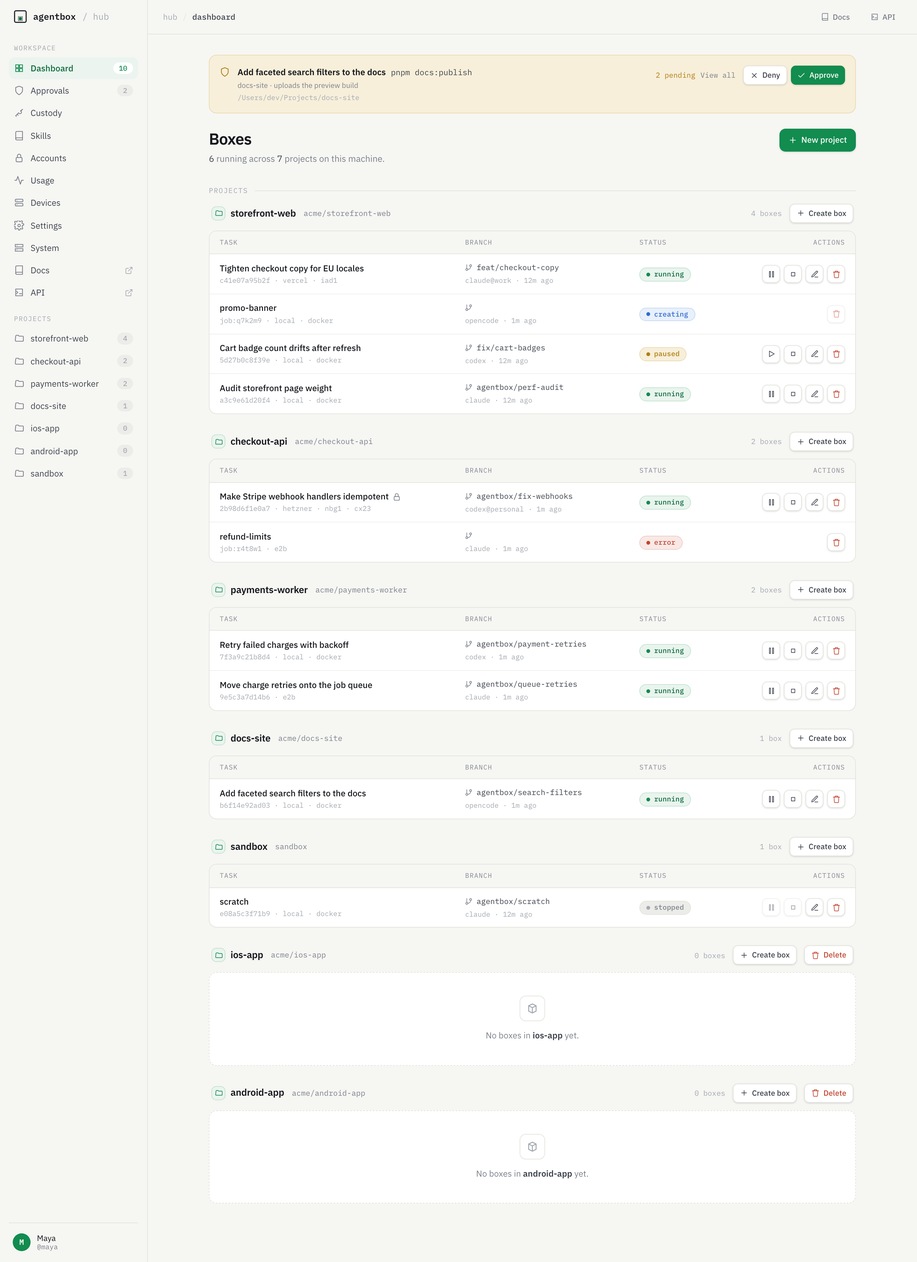
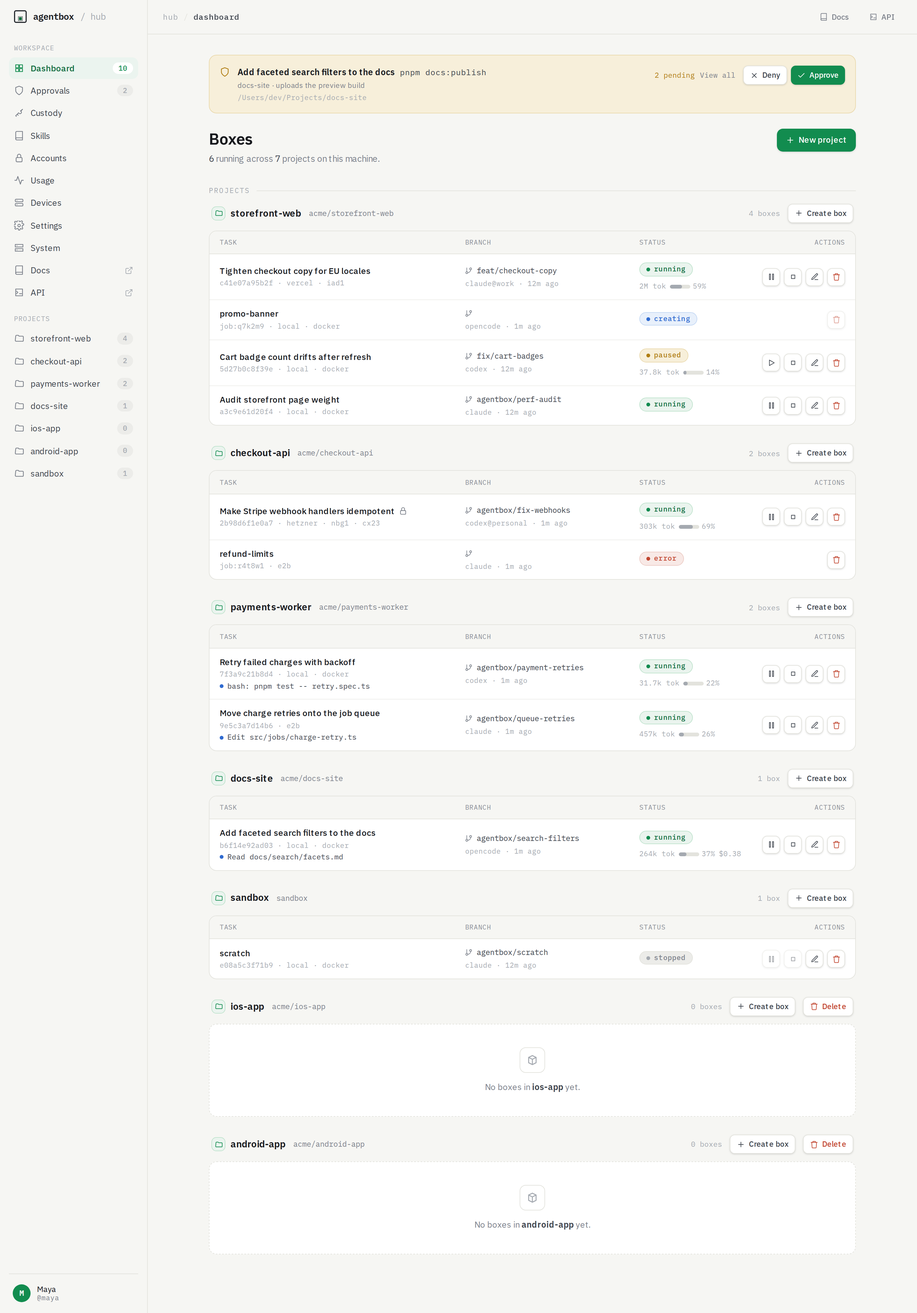
docs(live-status): retake the catalog hub box shots; mark hub-dashboard figure stale
Claude-Session: https://claude.ai/code/session_01A3UmwqeJmeG573FZSZ5B4x

diff --git a/catalog/screens/index.html b/catalog/screens/index.html
@@ -126,7 +126,7 @@ dialog::backdrop { background: var(--shade); }
 <dialog id="dlg"></dialog>
 
 <script>
-const DATA = {"screens":[{"topic":"Web hub","setup":"fixture-hub","url":"/","id":"hub/boxes","title":"Hub dashboard: every box, grouped by project","what":"The boxes list with a pending approval banner on top: running, paused, creating, failed and stopped boxes on docker, vercel, hetzner and e2b.","social":{"title":"Every coding agent in its own box","crop":[0,0,2880,1800]},"files":[{"shoot":"pnpm shoot hub/boxes.png / --full","file":"hub/boxes.png","w":2880,"h":3962,"url":"../shots/hub/boxes.png","path":"catalog/shots/hub/boxes.png"}]},{"topic":"Web hub","setup":"fixture-hub","url":"/boxes/\u003cbox id>","id":"hub/box-detail","title":"Box detail","what":"One box: status, git, services, the skills it holds, access links and its approvals.","from":"hub/boxes","via":"Click a box row","social":{"crop":[0,0,2880,1800]},"files":[{"shoot":"pnpm shoot hub/box-detail.png /boxes/7f3a9c21b8d4 --full","file":"hub/box-detail.png","w":2880,"h":3948,"url":"../shots/hub/box-detail.png","path":"catalog/shots/hub/box-detail.png"}]},{"topic":"Web hub","setup":"fixture-hub","url":"/projects/\u003cproject id>","id":"hub/project","title":"Project page","what":"A project's boxes, its seed in custody and its service bot with backups.","from":"hub/boxes","via":"Click a project in the sidebar","social":{"crop":[0,0,2880,1800]},"files":[{"shoot":"pnpm shoot hub/project-detail.png /projects/fx-payments-worker --full","file":"hub/project-detail.png","w":2880,"h":1928,"url":"../shots/hub/project-detail.png","path":"catalog/shots/hub/project-detail.png"}]},{"topic":"Web hub","setup":"fixture-hub","url":"/projects/\u003cproject id>, then Create box","id":"hub/create-box","title":"Create a box","what":"The create modal over a project page: provider, agent, account and first prompt.","from":"hub/project","via":"Create box","notes":["The modal opens over the project page; the click is the first \"Create box\" button on the page."],"files":[{"shoot":"pnpm shoot hub/create-box.png /projects/fx-payments-worker --click text=Create\\ box","file":"hub/create-box.png","w":2880,"h":1800,"url":"../shots/hub/create-box.png","path":"catalog/shots/hub/create-box.png"}]},{"topic":"Web hub","setup":"fixture-hub","url":"/approvals","id":"hub/approvals","title":"Approvals","what":"Host actions boxes asked for, waiting on a yes: a shell command on the host and a git push.","from":"hub/boxes","via":"Approvals in the sidebar, or View all on the banner","files":[{"shoot":"pnpm shoot hub/approvals.png /approvals","file":"hub/approvals.png","w":2880,"h":1800,"url":"../shots/hub/approvals.png","path":"catalog/shots/hub/approvals.png"}]},{"topic":"Web hub","setup":"fixture-hub","url":"/usage","id":"hub/usage","title":"Usage: tokens by day, agent, account, box and model","what":"Seven days of token usage (demo numbers) by day, agent, account, box and model.","social":{"title":"Where the tokens went, per box and per account","crop":[0,0,2880,1800]},"files":[{"shoot":"pnpm shoot hub/usage.png /usage --full","file":"hub/usage.png","w":2880,"h":6642,"url":"../shots/hub/usage.png","path":"catalog/shots/hub/usage.png"}]},{"topic":"Web hub","setup":"fixture-hub","url":"/custody","id":"hub/custody","title":"Custody: what the hub holds for boxes","what":"Agent logins, project seeds, bake records, the skills library and a box SSH key, metadata only.","files":[{"shoot":"pnpm shoot hub/custody.png /custody --full","file":"hub/custody.png","w":2880,"h":6160,"url":"../shots/hub/custody.png","path":"catalog/shots/hub/custody.png"}]},{"topic":"Web hub","setup":"fixture-hub","url":"/devices","id":"hub/devices","title":"Devices: the PCs enrolled on this hub","what":"Three enrolled machines, a revoked one, and an enrollment code waiting for approval.","files":[{"shoot":"pnpm shoot hub/devices.png /devices --full","file":"hub/devices.png","w":2880,"h":1892,"url":"../shots/hub/devices.png","path":"catalog/shots/hub/devices.png"}]},{"topic":"Web hub","setup":"fixture-hub","url":"/settings","id":"hub/settings","title":"Settings: providers","what":"Docker, Hetzner and Vercel ready; E2B, Daytona and DigitalOcean not set up.","files":[{"shoot":"pnpm shoot hub/settings.png /settings --full","file":"hub/settings.png","w":2880,"h":1918,"url":"../shots/hub/settings.png","path":"catalog/shots/hub/settings.png"}]},{"topic":"Web hub","setup":"fixture-hub","url":"/system","id":"hub/system","title":"System: hub version, bakes and the box image","what":"The hub's own state: version, deploy record, which provider bases are baked, the docker image.","files":[{"shoot":"pnpm shoot hub/system.png /system --full","file":"hub/system.png","w":2880,"h":3258,"url":"../shots/hub/system.png","path":"catalog/shots/hub/system.png"}]},{"topic":"Web hub: skills and accounts","setup":"fixture-hub","url":"/skills","id":"hub/skills","title":"Skills library","what":"The hub-owned skills library: git, marketplace, linked-folder and uploaded skills, two updates waiting for approval.","social":{"title":"One skills library for every box"},"files":[{"shoot":"pnpm shoot hub/skills.png /skills","file":"hub/skills.png","w":2880,"h":1800,"url":"../shots/hub/skills.png","path":"catalog/shots/hub/skills.png"}]},{"topic":"Web hub: skills and accounts","setup":"fixture-hub","url":"/skills","id":"hub/skills-update","title":"Review a skill update","what":"The update dialog of a library skill: the file diff between the current and the pending version, and the secret scan.","from":"hub/skills","via":"Review update on a skill with an update waiting","notes":["Taken 1500px tall: at 900 the dialog squeezes each file panel."],"files":[{"shoot":"pnpm shoot hub/skills-update.png /skills --size 1440x1500 --click text=Review\\ update","file":"hub/skills-update.png","w":2880,"h":3000,"url":"../shots/hub/skills-update.png","path":"catalog/shots/hub/skills-update.png"}]},{"topic":"Web hub: skills and accounts","setup":"fixture-hub","url":"/accounts","id":"hub/accounts","title":"LLM accounts","what":"Several logins, setup tokens and API keys per agent, with the boxes that use each one.","social":{"title":"Several Claude and Codex accounts, one per box"},"files":[{"shoot":"pnpm shoot hub/accounts.png /accounts","file":"hub/accounts.png","w":2880,"h":1800,"url":"../shots/hub/accounts.png","path":"catalog/shots/hub/accounts.png"}]},{"topic":"macOS tray","setup":"fixture-tray","id":"tray/menu","title":"Tray menu","what":"Boxes grouped under their manager session and project, an approval with Approve/Deny, and the footer.","social":{"kind":"cutout","title":"Every box, one click from the menu bar"},"files":[{"shoot":"pnpm shoot:tray tray/menu.png --restart","file":"tray/menu.png","w":1322,"h":1884,"url":"../shots/tray/menu.png","path":"catalog/shots/tray/menu.png"}]},{"topic":"macOS tray","setup":"fixture-tray","id":"tray/skill-updates","title":"Tray: Skill updates submenu","what":"\"Skill updates (2)\": one row per waiting update (name → version), then Review in hub….","from":"tray/menu","via":"Skill updates (2)","social":{"kind":"cutout"},"files":[{"shoot":"pnpm shoot:tray tray/skill-updates.png --press agentbox.footer.skillUpdates","file":"tray/skill-updates.png","w":1286,"h":1884,"url":"../shots/tray/skill-updates.png","path":"catalog/shots/tray/skill-updates.png"}]},{"topic":"macOS tray","setup":"fixture-tray","id":"tray/skill-approve","title":"Tray: approve a skill update","what":"The confirmation before a version becomes current: running boxes sync it now, stopped ones on their next start.","from":"tray/skill-updates","via":"A row under Skill updates (skill → version)","notes":["--alert quits the fixture app after the shot: the alert is modal, and a relaunch resets the demo."],"social":{"kind":"cutout"},"files":[{"shoot":"pnpm shoot:tray tray/skill-approve-confirm.png --press agentbox.footer.skillUpdates --press agentbox.skillUpdates.review-pr --alert","file":"tray/skill-approve-confirm.png","w":520,"h":640,"url":"../shots/tray/skill-approve-confirm.png","path":"catalog/shots/tray/skill-approve-confirm.png"}]},{"topic":"macOS tray","setup":"fixture-tray","id":"tray/box-skills-behind","title":"Tray: a box that is behind on skills","what":"A box's submenu: a \"Skills behind: …\" line naming the skills it lacks, and Sync Skills.","from":"tray/menu","via":"Hover a box row","social":{"kind":"cutout"},"files":[{"shoot":"pnpm shoot:tray tray/box-skills-behind.png --press agentbox.box.queue-retries","file":"tray/box-skills-behind.png","w":1452,"h":1884,"url":"../shots/tray/box-skills-behind.png","path":"catalog/shots/tray/box-skills-behind.png"}]},{"topic":"macOS tray","setup":"fixture-tray","id":"tray/accounts","title":"Tray: Accounts submenu","what":"The read-only list of LLM accounts per agent, with kind, identity and how many boxes use each.","from":"tray/menu","via":"Accounts","social":{"kind":"cutout"},"files":[{"shoot":"pnpm shoot:tray tray/accounts.png --press agentbox.footer.accounts","file":"tray/accounts.png","w":1352,"h":1884,"url":"../shots/tray/accounts.png","path":"catalog/shots/tray/accounts.png"}]},{"topic":"macOS tray","setup":"fixture-tray","id":"tray/manager","title":"Manager window","what":"Tasks grouped by box with progress, the latest activity (a PR ready to merge with Approve), and the manager session pane.","from":"tray/menu","via":"Open Manager (⌘M)","social":{"kind":"cutout","title":"Plan the work, watch every box, approve the merge"},"files":[{"shoot":"pnpm shoot:tray tray/manager.png --manager fx-commerce","file":"tray/manager.png","w":2360,"h":1800,"url":"../shots/tray/manager.png","path":"catalog/shots/tray/manager.png"}]},{"topic":"CLI","setup":"fixture-cli","url":"agentbox install","id":"cli/install","title":"Setup wizard","what":"`agentbox install` (and the first command on a new machine): the system check, then the provider choice.","notes":["The \"system warn: optional sshfs, macfuse\" line is this Mac's real check result."],"social":{"kind":"cutout","title":"Set up in one command"},"files":[{"state":"pick a provider","shoot":"pnpm shoot:cli cli/install-provider.png --first-run --cols 122 --rows 22 --wait-for Which -- install","file":"cli/install-provider.png","w":2222,"h":934,"url":"../shots/cli/install-provider.png","path":"catalog/shots/cli/install-provider.png"},{"state":"Hetzner API token","shoot":"pnpm shoot:cli cli/install-hetzner.png --first-run --cols 110 --rows 34 --wait-for Which --send '\u003cDown>\u003cDown>' --send '\u003cEnter>' --settle 2500 -- install","file":"cli/install-hetzner.png","w":2028,"h":1246,"url":"../shots/cli/install-hetzner.png","path":"catalog/shots/cli/install-hetzner.png"}]},{"topic":"CLI","setup":"fixture-cli","url":"agentbox ls --global","id":"cli/ls","title":"agentbox ls","what":"Every box on the hub: state, agent activity (and its account), provider, URL and project.","social":{"kind":"cutout"},"files":[{"shoot":"pnpm shoot:cli cli/ls.png --cols 122 --rows 22 -- ls --global","file":"cli/ls.png","w":2222,"h":816,"url":"../shots/cli/ls.png","path":"catalog/shots/cli/ls.png"}]},{"topic":"CLI","setup":"fixture-cli","url":"agentbox --help","id":"cli/help","title":"agentbox --help","what":"The command list.","social":{"kind":"cutout"},"files":[{"shoot":"pnpm shoot:cli cli/help.png --cols 100 --rows 60 -- --help","file":"cli/help.png","w":1864,"h":2068,"url":"../shots/cli/help.png","path":"catalog/shots/cli/help.png"}]},{"id":"docs/dashboard","topic":"From the docs","title":"agentbox dashboard (docs capture)","what":"The terminal dashboard: the box list on the left, the selected box's live agent session on the right.","setup":"docs-site","files":[{"file":"docs:dashboard.png","w":2696,"h":1130,"url":"../../apps/web/public/screenshots/dashboard.png","path":"apps/web/public/screenshots/dashboard.png"}],"notes":["Needs live tmux sessions in real boxes, which the fixtures cannot provide, so it comes from the docs. Real boxes from the docs test environment (2026-06-02)."],"social":{"kind":"page"}},{"id":"docs/claude-tui","topic":"From the docs","title":"Claude Code in a box (docs capture)","what":"An attached Claude Code session running inside a docker box.","setup":"docs-site","files":[{"file":"docs:claude-tui.png","w":2336,"h":989,"url":"../../apps/web/public/screenshots/claude-tui.png","path":"apps/web/public/screenshots/claude-tui.png"}]},{"id":"docs/push-approval","topic":"From the docs","title":"Push approval in the terminal (docs capture)","what":"The approval band a box raises when its agent runs gh pr create.","setup":"docs-site","files":[{"file":"docs:push-approval.png","w":2416,"h":1120,"url":"../../apps/web/public/screenshots/push-approval.png","path":"apps/web/public/screenshots/push-approval.png"}]},{"id":"docs/novnc-desktop","topic":"From the docs","title":"A box's desktop over noVNC (docs capture)","what":"The in-box browser and desktop.","setup":"docs-site","files":[{"file":"docs:novnc-desktop.png","w":1140,"h":978,"url":"../../apps/web/public/screenshots/novnc-desktop.png","path":"apps/web/public/screenshots/novnc-desktop.png"}],"check":"apps/web/images.md marks this one stale: it predates the window manager and the dock."},{"id":"docs/herdr","topic":"From the docs","title":"Herdr: a box blocked on an approval (docs capture)","what":"Claude in a box inside Herdr, waiting on a gh pr create approval, with the agents sidebar.","setup":"docs-site","files":[{"file":"docs:herdr-permission-prompt.png","w":2784,"h":1616,"url":"../../apps/web/public/screenshots/herdr-permission-prompt.png","path":"apps/web/public/screenshots/herdr-permission-prompt.png"}]},{"id":"docs/cmux","topic":"From the docs","title":"cmux: box status in the sidebar (docs capture)","what":"Box state as colour and description in the cmux sidebar.","setup":"docs-site","files":[{"file":"docs:cmux-sidebar-state.png","w":1100,"h":640,"url":"../../apps/web/public/screenshots/cmux-sidebar-state.png","path":"apps/web/public/screenshots/cmux-sidebar-state.png"}]}],"setups":{"fixture-hub":{"title":"Fixture hub: the real hub UI on the Acme demo data","what":"apps/hub's own production build, served by scripts/fixture-hub.mjs on 127.0.0.1:3126 with a fixture backend (fixtures/acme.mjs) and every /api/v1 route answered from fixtures/api.mjs. No relay, no boxes, no sign-in; HOME is .cache/home.","commands":["pnpm --filter @agentbox/hub build   # only when apps/hub changed since the last build (from the repo root)","pnpm fixture-hub                    # http://127.0.0.1:3126, leave it running","pnpm shoot \u003cfile> \u003cpath>            # in another terminal"],"notes":["A route a page asks for that has no fixture prints \"unhandled GET ...\" in the fixture hub's log, and shoot warns \"answered 404\". Add it to fixtures/api.mjs.","The hub reads the clock in the browser: shoot pins it to NOW in fixtures/acme.mjs, so \"3m ago\" is the same on every run."]},"fixture-tray":{"title":"Tray app in fixture mode (AgentBoxE2E.app --fixtures)","what":"A second tray instance from ../agentbox-tray (own bundle id and process name, so the owner's real tray is never touched), launched with --fixtures: the tray's in-memory FixtureBoxSource, the same Acme story as the hub fixtures, no hub, no shell-outs. Driven through Accessibility by e2e/tray-driver.","commands":["cd ../../agentbox-tray && make e2e-app            # builds AgentBoxE2E.app (after a tray change)","cd ../e2e/tray-driver && swift build -c release   # the AX driver, once","pnpm shoot:tray \u003cfile> [--press \u003cax id>]...       # launches the app itself when it is not running"],"notes":["Opening a menu takes the screen for a moment: shoot:tray waits until the Mac has had 3s without input. Don't use the Mac while it runs.","Captures are `screencapture -l \u003cwindow id>` of the app's own windows, never a screen region, so nothing else on the screen gets in.","The terminal that runs it needs Screen Recording and Accessibility permission (System Settings → Privacy & Security).","The tray's demo data lives in the tray repo (Sources/AgentBox/Source/FixtureBoxSource.swift), not here. Keep fixtures/acme.mjs in step with it."]},"fixture-cli":{"title":"CLI in a PTY, HOME pointed at the fixture hub","what":"apps/cli/dist/index.js run in the repo's PTY harness (`pnpm drive`) with HOME=.cache/cli-home, whose config sets relay.port to 3126: every hub-backed command reads the fixture hub. The rendered screen, colours included, is drawn into a terminal window by scripts/shoot-cli.mjs.","commands":["pnpm --filter agentbox build   # from the repo root, when the CLI changed","pnpm fixture-hub               # leave it running","pnpm shoot:cli \u003cfile> [options] -- \u003cagentbox args>"],"notes":["The prompt line (\"~/Projects/commerce ❯ agentbox ...\") is drawn, not typed.","Checks that read the real machine (the system compatibility step of the wizard) show this Mac's result."]},"docs-site":{"title":"Taken for the public docs (apps/web)","what":"Real screenshots of real boxes, taken for agent-box.sh/docs and kept in apps/web/public/screenshots. How each was taken, and which are stale, is in apps/web/images.md.","commands":["# see apps/web/images.md, section 1 (the test environment) and its status table"]}},"topics":["Web hub","Web hub: skills and accounts","macOS tray","CLI","From the docs"]};
+const DATA = {"screens":[{"topic":"Web hub","setup":"fixture-hub","url":"/","id":"hub/boxes","title":"Hub dashboard: every box, grouped by project","what":"The boxes list with a pending approval banner on top: running, paused, creating, failed and stopped boxes on docker, vercel, hetzner and e2b.","social":{"title":"Every coding agent in its own box","crop":[0,0,2880,1800]},"files":[{"shoot":"pnpm shoot hub/boxes.png / --full","file":"hub/boxes.png","w":2880,"h":4122,"url":"../shots/hub/boxes.png","path":"catalog/shots/hub/boxes.png"}]},{"topic":"Web hub","setup":"fixture-hub","url":"/boxes/\u003cbox id>","id":"hub/box-detail","title":"Box detail","what":"One box: status, git, services, the skills it holds, access links and its approvals.","from":"hub/boxes","via":"Click a box row","social":{"crop":[0,0,2880,1800]},"files":[{"shoot":"pnpm shoot hub/box-detail.png /boxes/7f3a9c21b8d4 --full","file":"hub/box-detail.png","w":2880,"h":4252,"url":"../shots/hub/box-detail.png","path":"catalog/shots/hub/box-detail.png"}]},{"topic":"Web hub","setup":"fixture-hub","url":"/projects/\u003cproject id>","id":"hub/project","title":"Project page","what":"A project's boxes, its seed in custody and its service bot with backups.","from":"hub/boxes","via":"Click a project in the sidebar","social":{"crop":[0,0,2880,1800]},"files":[{"shoot":"pnpm shoot hub/project-detail.png /projects/fx-payments-worker --full","file":"hub/project-detail.png","w":2880,"h":1928,"url":"../shots/hub/project-detail.png","path":"catalog/shots/hub/project-detail.png"}]},{"topic":"Web hub","setup":"fixture-hub","url":"/projects/\u003cproject id>, then Create box","id":"hub/create-box","title":"Create a box","what":"The create modal over a project page: provider, agent, account and first prompt.","from":"hub/project","via":"Create box","notes":["The modal opens over the project page; the click is the first \"Create box\" button on the page."],"files":[{"shoot":"pnpm shoot hub/create-box.png /projects/fx-payments-worker --click text=Create\\ box","file":"hub/create-box.png","w":2880,"h":1800,"url":"../shots/hub/create-box.png","path":"catalog/shots/hub/create-box.png"}]},{"topic":"Web hub","setup":"fixture-hub","url":"/approvals","id":"hub/approvals","title":"Approvals","what":"Host actions boxes asked for, waiting on a yes: a shell command on the host and a git push.","from":"hub/boxes","via":"Approvals in the sidebar, or View all on the banner","files":[{"shoot":"pnpm shoot hub/approvals.png /approvals","file":"hub/approvals.png","w":2880,"h":1800,"url":"../shots/hub/approvals.png","path":"catalog/shots/hub/approvals.png"}]},{"topic":"Web hub","setup":"fixture-hub","url":"/usage","id":"hub/usage","title":"Usage: tokens by day, agent, account, box and model","what":"Seven days of token usage (demo numbers) by day, agent, account, box and model.","social":{"title":"Where the tokens went, per box and per account","crop":[0,0,2880,1800]},"files":[{"shoot":"pnpm shoot hub/usage.png /usage --full","file":"hub/usage.png","w":2880,"h":6642,"url":"../shots/hub/usage.png","path":"catalog/shots/hub/usage.png"}]},{"topic":"Web hub","setup":"fixture-hub","url":"/custody","id":"hub/custody","title":"Custody: what the hub holds for boxes","what":"Agent logins, project seeds, bake records, the skills library and a box SSH key, metadata only.","files":[{"shoot":"pnpm shoot hub/custody.png /custody --full","file":"hub/custody.png","w":2880,"h":6160,"url":"../shots/hub/custody.png","path":"catalog/shots/hub/custody.png"}]},{"topic":"Web hub","setup":"fixture-hub","url":"/devices","id":"hub/devices","title":"Devices: the PCs enrolled on this hub","what":"Three enrolled machines, a revoked one, and an enrollment code waiting for approval.","files":[{"shoot":"pnpm shoot hub/devices.png /devices --full","file":"hub/devices.png","w":2880,"h":1892,"url":"../shots/hub/devices.png","path":"catalog/shots/hub/devices.png"}]},{"topic":"Web hub","setup":"fixture-hub","url":"/settings","id":"hub/settings","title":"Settings: providers","what":"Docker, Hetzner and Vercel ready; E2B, Daytona and DigitalOcean not set up.","files":[{"shoot":"pnpm shoot hub/settings.png /settings --full","file":"hub/settings.png","w":2880,"h":1918,"url":"../shots/hub/settings.png","path":"catalog/shots/hub/settings.png"}]},{"topic":"Web hub","setup":"fixture-hub","url":"/system","id":"hub/system","title":"System: hub version, bakes and the box image","what":"The hub's own state: version, deploy record, which provider bases are baked, the docker image.","files":[{"shoot":"pnpm shoot hub/system.png /system --full","file":"hub/system.png","w":2880,"h":3258,"url":"../shots/hub/system.png","path":"catalog/shots/hub/system.png"}]},{"topic":"Web hub: skills and accounts","setup":"fixture-hub","url":"/skills","id":"hub/skills","title":"Skills library","what":"The hub-owned skills library: git, marketplace, linked-folder and uploaded skills, two updates waiting for approval.","social":{"title":"One skills library for every box"},"files":[{"shoot":"pnpm shoot hub/skills.png /skills","file":"hub/skills.png","w":2880,"h":1800,"url":"../shots/hub/skills.png","path":"catalog/shots/hub/skills.png"}]},{"topic":"Web hub: skills and accounts","setup":"fixture-hub","url":"/skills","id":"hub/skills-update","title":"Review a skill update","what":"The update dialog of a library skill: the file diff between the current and the pending version, and the secret scan.","from":"hub/skills","via":"Review update on a skill with an update waiting","notes":["Taken 1500px tall: at 900 the dialog squeezes each file panel."],"files":[{"shoot":"pnpm shoot hub/skills-update.png /skills --size 1440x1500 --click text=Review\\ update","file":"hub/skills-update.png","w":2880,"h":3000,"url":"../shots/hub/skills-update.png","path":"catalog/shots/hub/skills-update.png"}]},{"topic":"Web hub: skills and accounts","setup":"fixture-hub","url":"/accounts","id":"hub/accounts","title":"LLM accounts","what":"Several logins, setup tokens and API keys per agent, with the boxes that use each one.","social":{"title":"Several Claude and Codex accounts, one per box"},"files":[{"shoot":"pnpm shoot hub/accounts.png /accounts","file":"hub/accounts.png","w":2880,"h":1800,"url":"../shots/hub/accounts.png","path":"catalog/shots/hub/accounts.png"}]},{"topic":"macOS tray","setup":"fixture-tray","id":"tray/menu","title":"Tray menu","what":"Boxes grouped under their manager session and project, an approval with Approve/Deny, and the footer.","social":{"kind":"cutout","title":"Every box, one click from the menu bar"},"files":[{"shoot":"pnpm shoot:tray tray/menu.png --restart","file":"tray/menu.png","w":1322,"h":1884,"url":"../shots/tray/menu.png","path":"catalog/shots/tray/menu.png"}]},{"topic":"macOS tray","setup":"fixture-tray","id":"tray/skill-updates","title":"Tray: Skill updates submenu","what":"\"Skill updates (2)\": one row per waiting update (name → version), then Review in hub….","from":"tray/menu","via":"Skill updates (2)","social":{"kind":"cutout"},"files":[{"shoot":"pnpm shoot:tray tray/skill-updates.png --press agentbox.footer.skillUpdates","file":"tray/skill-updates.png","w":1286,"h":1884,"url":"../shots/tray/skill-updates.png","path":"catalog/shots/tray/skill-updates.png"}]},{"topic":"macOS tray","setup":"fixture-tray","id":"tray/skill-approve","title":"Tray: approve a skill update","what":"The confirmation before a version becomes current: running boxes sync it now, stopped ones on their next start.","from":"tray/skill-updates","via":"A row under Skill updates (skill → version)","notes":["--alert quits the fixture app after the shot: the alert is modal, and a relaunch resets the demo."],"social":{"kind":"cutout"},"files":[{"shoot":"pnpm shoot:tray tray/skill-approve-confirm.png --press agentbox.footer.skillUpdates --press agentbox.skillUpdates.review-pr --alert","file":"tray/skill-approve-confirm.png","w":520,"h":640,"url":"../shots/tray/skill-approve-confirm.png","path":"catalog/shots/tray/skill-approve-confirm.png"}]},{"topic":"macOS tray","setup":"fixture-tray","id":"tray/box-skills-behind","title":"Tray: a box that is behind on skills","what":"A box's submenu: a \"Skills behind: …\" line naming the skills it lacks, and Sync Skills.","from":"tray/menu","via":"Hover a box row","social":{"kind":"cutout"},"files":[{"shoot":"pnpm shoot:tray tray/box-skills-behind.png --press agentbox.box.queue-retries","file":"tray/box-skills-behind.png","w":1452,"h":1884,"url":"../shots/tray/box-skills-behind.png","path":"catalog/shots/tray/box-skills-behind.png"}]},{"topic":"macOS tray","setup":"fixture-tray","id":"tray/accounts","title":"Tray: Accounts submenu","what":"The read-only list of LLM accounts per agent, with kind, identity and how many boxes use each.","from":"tray/menu","via":"Accounts","social":{"kind":"cutout"},"files":[{"shoot":"pnpm shoot:tray tray/accounts.png --press agentbox.footer.accounts","file":"tray/accounts.png","w":1352,"h":1884,"url":"../shots/tray/accounts.png","path":"catalog/shots/tray/accounts.png"}]},{"topic":"macOS tray","setup":"fixture-tray","id":"tray/manager","title":"Manager window","what":"Tasks grouped by box with progress, the latest activity (a PR ready to merge with Approve), and the manager session pane.","from":"tray/menu","via":"Open Manager (⌘M)","social":{"kind":"cutout","title":"Plan the work, watch every box, approve the merge"},"files":[{"shoot":"pnpm shoot:tray tray/manager.png --manager fx-commerce","file":"tray/manager.png","w":2360,"h":1800,"url":"../shots/tray/manager.png","path":"catalog/shots/tray/manager.png"}]},{"topic":"CLI","setup":"fixture-cli","url":"agentbox install","id":"cli/install","title":"Setup wizard","what":"`agentbox install` (and the first command on a new machine): the system check, then the provider choice.","notes":["The \"system warn: optional sshfs, macfuse\" line is this Mac's real check result."],"social":{"kind":"cutout","title":"Set up in one command"},"files":[{"state":"pick a provider","shoot":"pnpm shoot:cli cli/install-provider.png --first-run --cols 122 --rows 22 --wait-for Which -- install","file":"cli/install-provider.png","w":2222,"h":934,"url":"../shots/cli/install-provider.png","path":"catalog/shots/cli/install-provider.png"},{"state":"Hetzner API token","shoot":"pnpm shoot:cli cli/install-hetzner.png --first-run --cols 110 --rows 34 --wait-for Which --send '\u003cDown>\u003cDown>' --send '\u003cEnter>' --settle 2500 -- install","file":"cli/install-hetzner.png","w":2028,"h":1246,"url":"../shots/cli/install-hetzner.png","path":"catalog/shots/cli/install-hetzner.png"}]},{"topic":"CLI","setup":"fixture-cli","url":"agentbox ls --global","id":"cli/ls","title":"agentbox ls","what":"Every box on the hub: state, agent activity (and its account), provider, URL and project.","social":{"kind":"cutout"},"files":[{"shoot":"pnpm shoot:cli cli/ls.png --cols 122 --rows 22 -- ls --global","file":"cli/ls.png","w":2222,"h":816,"url":"../shots/cli/ls.png","path":"catalog/shots/cli/ls.png"}]},{"topic":"CLI","setup":"fixture-cli","url":"agentbox --help","id":"cli/help","title":"agentbox --help","what":"The command list.","social":{"kind":"cutout"},"files":[{"shoot":"pnpm shoot:cli cli/help.png --cols 100 --rows 60 -- --help","file":"cli/help.png","w":1864,"h":2068,"url":"../shots/cli/help.png","path":"catalog/shots/cli/help.png"}]},{"id":"docs/dashboard","topic":"From the docs","title":"agentbox dashboard (docs capture)","what":"The terminal dashboard: the box list on the left, the selected box's live agent session on the right.","setup":"docs-site","files":[{"file":"docs:dashboard.png","w":2696,"h":1130,"url":"../../apps/web/public/screenshots/dashboard.png","path":"apps/web/public/screenshots/dashboard.png"}],"notes":["Needs live tmux sessions in real boxes, which the fixtures cannot provide, so it comes from the docs. Real boxes from the docs test environment (2026-06-02)."],"social":{"kind":"page"}},{"id":"docs/claude-tui","topic":"From the docs","title":"Claude Code in a box (docs capture)","what":"An attached Claude Code session running inside a docker box.","setup":"docs-site","files":[{"file":"docs:claude-tui.png","w":2336,"h":989,"url":"../../apps/web/public/screenshots/claude-tui.png","path":"apps/web/public/screenshots/claude-tui.png"}]},{"id":"docs/push-approval","topic":"From the docs","title":"Push approval in the terminal (docs capture)","what":"The approval band a box raises when its agent runs gh pr create.","setup":"docs-site","files":[{"file":"docs:push-approval.png","w":2416,"h":1120,"url":"../../apps/web/public/screenshots/push-approval.png","path":"apps/web/public/screenshots/push-approval.png"}]},{"id":"docs/novnc-desktop","topic":"From the docs","title":"A box's desktop over noVNC (docs capture)","what":"The in-box browser and desktop.","setup":"docs-site","files":[{"file":"docs:novnc-desktop.png","w":1140,"h":978,"url":"../../apps/web/public/screenshots/novnc-desktop.png","path":"apps/web/public/screenshots/novnc-desktop.png"}],"check":"apps/web/images.md marks this one stale: it predates the window manager and the dock."},{"id":"docs/herdr","topic":"From the docs","title":"Herdr: a box blocked on an approval (docs capture)","what":"Claude in a box inside Herdr, waiting on a gh pr create approval, with the agents sidebar.","setup":"docs-site","files":[{"file":"docs:herdr-permission-prompt.png","w":2784,"h":1616,"url":"../../apps/web/public/screenshots/herdr-permission-prompt.png","path":"apps/web/public/screenshots/herdr-permission-prompt.png"}]},{"id":"docs/cmux","topic":"From the docs","title":"cmux: box status in the sidebar (docs capture)","what":"Box state as colour and description in the cmux sidebar.","setup":"docs-site","files":[{"file":"docs:cmux-sidebar-state.png","w":1100,"h":640,"url":"../../apps/web/public/screenshots/cmux-sidebar-state.png","path":"apps/web/public/screenshots/cmux-sidebar-state.png"}]}],"setups":{"fixture-hub":{"title":"Fixture hub: the real hub UI on the Acme demo data","what":"apps/hub's own production build, served by scripts/fixture-hub.mjs on 127.0.0.1:3126 with a fixture backend (fixtures/acme.mjs) and every /api/v1 route answered from fixtures/api.mjs. No relay, no boxes, no sign-in; HOME is .cache/home.","commands":["pnpm --filter @agentbox/hub build   # only when apps/hub changed since the last build (from the repo root)","pnpm fixture-hub                    # http://127.0.0.1:3126, leave it running","pnpm shoot \u003cfile> \u003cpath>            # in another terminal"],"notes":["A route a page asks for that has no fixture prints \"unhandled GET ...\" in the fixture hub's log, and shoot warns \"answered 404\". Add it to fixtures/api.mjs.","The hub reads the clock in the browser: shoot pins it to NOW in fixtures/acme.mjs, so \"3m ago\" is the same on every run."]},"fixture-tray":{"title":"Tray app in fixture mode (AgentBoxE2E.app --fixtures)","what":"A second tray instance from ../agentbox-tray (own bundle id and process name, so the owner's real tray is never touched), launched with --fixtures: the tray's in-memory FixtureBoxSource, the same Acme story as the hub fixtures, no hub, no shell-outs. Driven through Accessibility by e2e/tray-driver.","commands":["cd ../../agentbox-tray && make e2e-app            # builds AgentBoxE2E.app (after a tray change)","cd ../e2e/tray-driver && swift build -c release   # the AX driver, once","pnpm shoot:tray \u003cfile> [--press \u003cax id>]...       # launches the app itself when it is not running"],"notes":["Opening a menu takes the screen for a moment: shoot:tray waits until the Mac has had 3s without input. Don't use the Mac while it runs.","Captures are `screencapture -l \u003cwindow id>` of the app's own windows, never a screen region, so nothing else on the screen gets in.","The terminal that runs it needs Screen Recording and Accessibility permission (System Settings → Privacy & Security).","The tray's demo data lives in the tray repo (Sources/AgentBox/Source/FixtureBoxSource.swift), not here. Keep fixtures/acme.mjs in step with it."]},"fixture-cli":{"title":"CLI in a PTY, HOME pointed at the fixture hub","what":"apps/cli/dist/index.js run in the repo's PTY harness (`pnpm drive`) with HOME=.cache/cli-home, whose config sets relay.port to 3126: every hub-backed command reads the fixture hub. The rendered screen, colours included, is drawn into a terminal window by scripts/shoot-cli.mjs.","commands":["pnpm --filter agentbox build   # from the repo root, when the CLI changed","pnpm fixture-hub               # leave it running","pnpm shoot:cli \u003cfile> [options] -- \u003cagentbox args>"],"notes":["The prompt line (\"~/Projects/commerce ❯ agentbox ...\") is drawn, not typed.","Checks that read the real machine (the system compatibility step of the wizard) show this Mac's result."]},"docs-site":{"title":"Taken for the public docs (apps/web)","what":"Real screenshots of real boxes, taken for agent-box.sh/docs and kept in apps/web/public/screenshots. How each was taken, and which are stale, is in apps/web/images.md.","commands":["# see apps/web/images.md, section 1 (the test environment) and its status table"]}},"topics":["Web hub","Web hub: skills and accounts","macOS tray","CLI","From the docs"]};
 const { screens, setups, topics } = DATA;
 const byId = Object.fromEntries(screens.map((s) => [s.id, s]));
 /* frame() and FORMATS, from scripts/frame.mjs: the export's own layout. */

diff --git a/apps/web/images.md b/apps/web/images.md
@@ -18,7 +18,7 @@ Use the /screenshot skill to capture screenshots of terminal windows and GUI win
 | `web-app.png` | web-apps-and-tunnels | done (2026-06-02, wrapped in a browser chrome showing the web.localhost address bar) | A |
 | `novnc-desktop.png` | access-your-box, browser-and-screen | **stale** — predates the JWM window manager + bottom dock; recapture so the dock is visible (it now paints the wallpaper's own #f5f3f0, so it reads as free-floating icons, not a dark strip) (last done 2026-06-02, in-box browser shows the app; wrapped in a fake browser chrome → browser-in-browser) | A |
 | `agentbox-ls.png` | background-and-parallel | done (2026-06-02, recaptured) | B |
-| `hub-dashboard.png` | hub (hero) | done (2026-07-12, headless capture of the hub at 2x zoom) | A |
+| `hub-dashboard.png` | hub (hero) | **stale** — rows now show the working-on line and a token figure with context fill (live status, Phase 4); recapture with an agent mid-turn (last done 2026-07-12, headless capture of the hub at 2x zoom) | A |
 | `dashboard.png` | access-your-box, background-and-parallel, cli | done (2026-06-02, recaptured) | C |
 | `claude-tui.png` | run-an-agent, cli | done (2026-06-02) | C |
 | `cursor.png` | access-your-box (Cursor / Dev Containers) | done (2026-06-02) | C |
